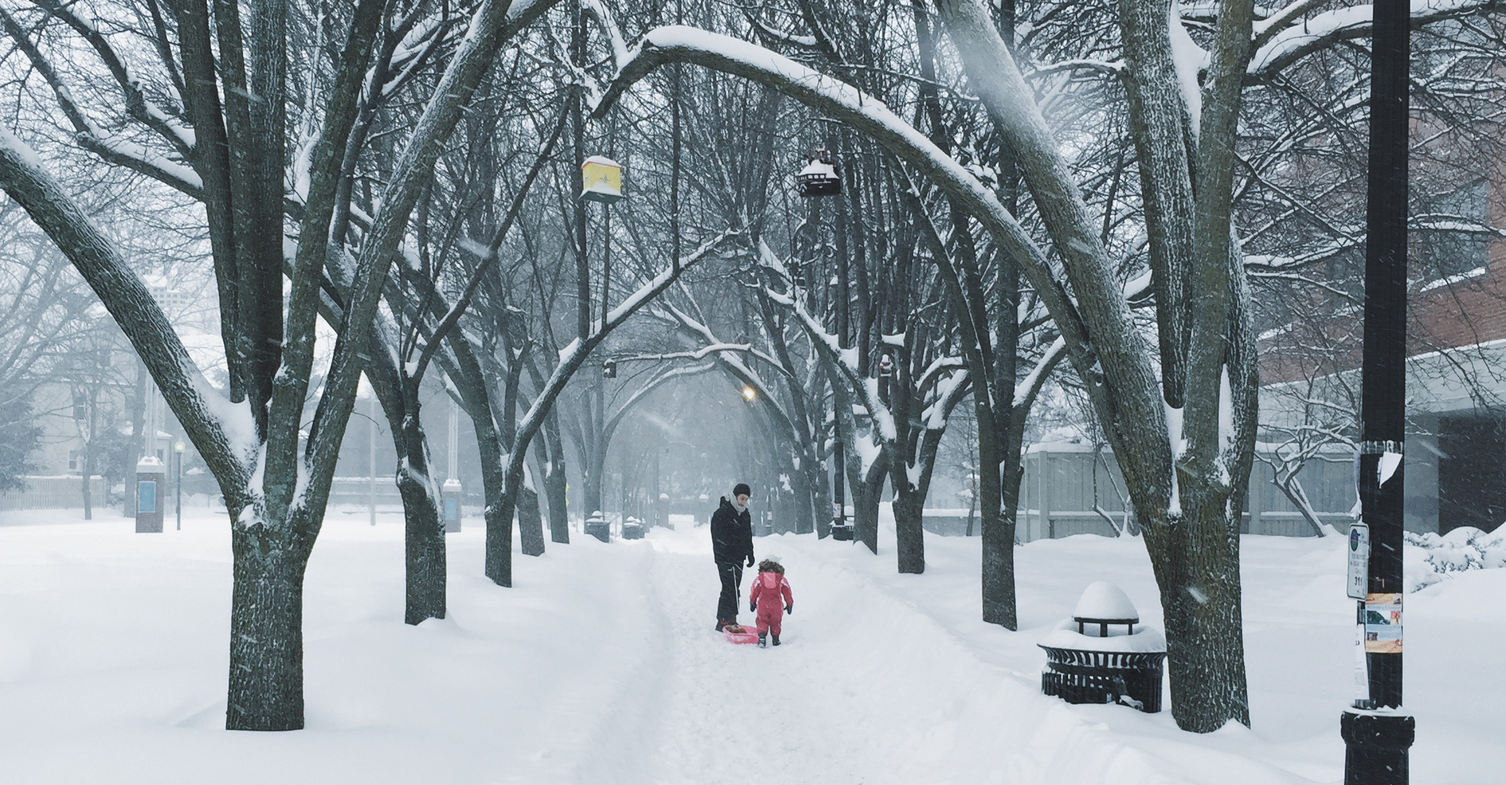
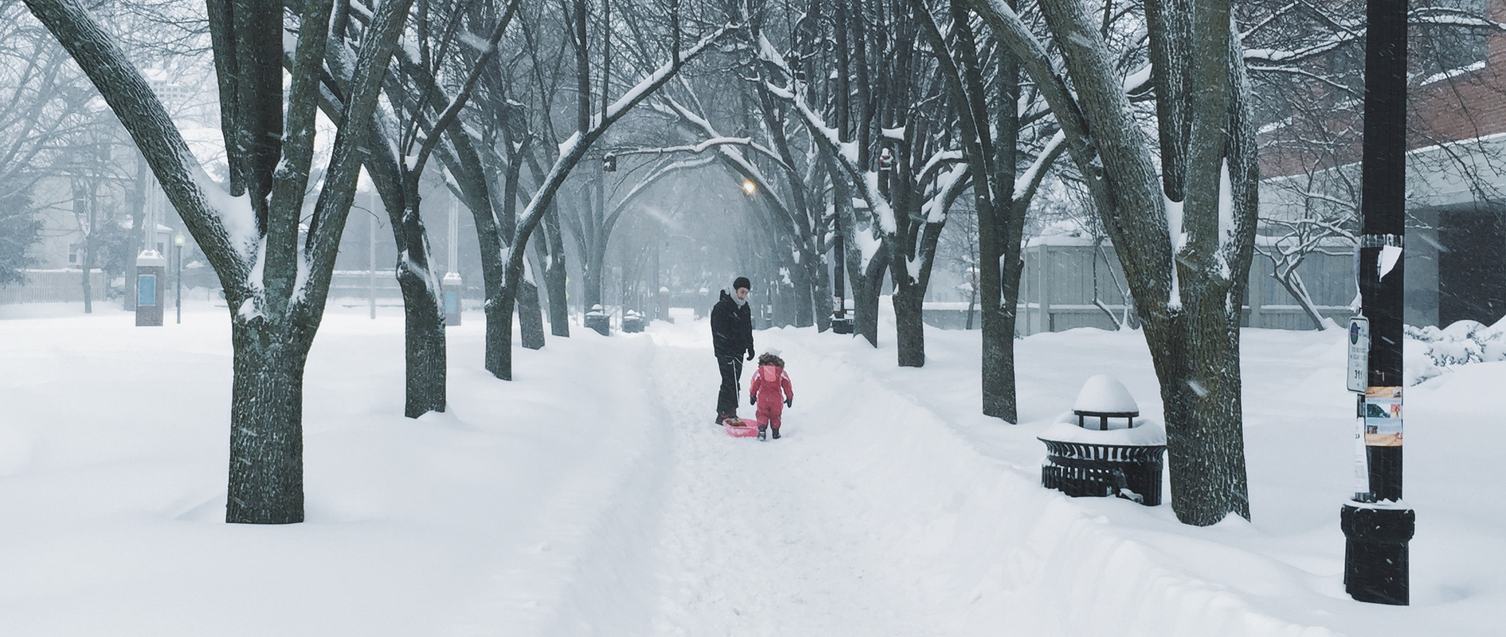
Update styles and photos
CSS clean up

diff --git a/index.html b/index.html
@@ -2,29 +2,10 @@
 <html lang="en">
 
 	<head>
-
-	<style>
-
-		.bk-photo{
-			background: url(assets/photos/snow-day.jpg) no-repeat center center fixed;
-			width: 100%;
-			padding: 0 7%;
-			display: table;
-			margin: 0;
-			max-width: none;
-			background-color: #373B44;
-			height: 80vh;
-		}
-
-		.layout-semibreve{
-			padding-top: 0 !important;
-		}
-
-	</style>
-
 	<meta charset="utf-8">
 	<meta name="viewport" content="width=device-width, initial-scale=1.0"/>
 	<title>Team Somerville: Our Fellowship Story</title>
+	<link rel="stylesheet" type="text/css" href="style.css">
 	<link rel="stylesheet" type="text/css" href="//cloud.webtype.com/css/944a7551-9b08-4f0a-8767-e0f83db4a16b.css" />
 	<link rel="stylesheet" href="https://style.codeforamerica.org/2/style/css/main.css">
 
@@ -61,16 +42,16 @@
 
 	<div class="layout-semibreve">
 
-			<header class="heading">
-				<h1>Team Somerville</h1>
-				<p><b>Mid-Year Report:</b> June 18, 2015</p>
-			</header>
+		<header class="heading">
+			<h1>Team Somerville</h1>
+			<p><b>Mid-Year Report:</b> June 18, 2015</p>
+		</header>
 
 		<div class="layout-minor">
 
 			<nav role="navigation" class="toc" id="toc">
 
-				<h3>Table of Contents</h3>
+				<h5>Table of Contents</h5>
 
 				<ul class="sectlevel1">
 					<li><a href="#summary">Executive Summary</a></li>
@@ -83,12 +64,12 @@
 					<li><a href="#welcome-baby">Welcome Baby</a></li>
 					<li><a href="#teacher-tool">Teacher Tool</a></li>
 					<li><a href="#special-ed">Special Education</a></li>
-					<li><a href="#side-projects">Next steps</a></li>
+					<li><a href="#side-projects">Side Projects</a></li>
 					<li><a href="#next-steps">Next steps</a></li>
 				</ul>
 
 			</nav>
-				<h3>Contributors</h3>
+				<h5>Contributors</h5>
 				<ul class="sectlevel1">
 					<li><a href="http://www.codeforamerica.org/people/alex-soble/">Alex Soble</a></li>
 					<li><a href="http://www.codeforamerica.org/people/amir-hadjihabib/">Amir Hadjihabib</a></li>
@@ -100,8 +81,7 @@
 		<main id="content" class="layout-major">
 
 			<section id="summary">
-				<h2>Executive Summary</h2>
-				<blockquote>“In a time of national gridlock where municipalities increasingly need to be the driving force for creative problem-solving and innovation, it’s critical to have a nimble organization like Code for America working directly with cities to develop new solutions and accelerate our progress. Our Fellows will be helping to expand data-based decision-making in our schools to improve outcomes for our students, and we are honored that we were selected to host them.” - Mayor Joseph Curtatone </blockquote>
+				<blockquote>In a time of national gridlock where municipalities increasingly need to be the driving force for creative problem-solving and innovation, it’s critical to have a nimble organization like Code for America working directly with cities</br></br><span class="quote-name">Mayor Joseph Curtatone</span></blockquote>
 			</section>
 
 			<section id="story">
@@ -110,8 +90,10 @@
 				<p><b><i>“Be abnormal and untethered.”</i></b> These were the words of advice from Mayor Joseph Curtatone. It was our first day of February Residency and we were snowed in. Despite having two Chicagoans on Team Somerville, we were not quite prepared for Boston’s frigid welcome. When our city partners - Stephanie Hirsch and Denise Taylor - arrived at our door, with a spare pair of boots to rescue what they called “LA slippers”, we half expected they would come with skis. </p>
 
 				<figure>
-					<img src="assets/photos/first-day-walk.jpg" />
-					<figcaption>[Us walking in the snow on the first day]</figcaption>
+					<span class="image_rounded_shadow">
+						<img src="assets/photos/first-day-walk.jpg"/>
+						<figcaption>Us walking in the snow on the first day</figcaption>
+					</span>
 				</figure>
 
 				<p>While many of our scheduled meetings were cancelled due to the State, City and school closures, the eventual record-breaking winter blizzards were blessings in disguise. We adapted and, in many ways, bonded over the shared new experiences: February Fellowship and <a href="https://twitter.com/BostonGlobe/status/577484658105020417">#BOSnow</a> storm.</p>
@@ -121,31 +103,30 @@
 				<p>We also soon discovered that Stephanie’s home was a revolving door for neighborhood folks who stopped by to simply say hi or to drop off their child for a play date. We immediately saw through these interactions how close-knit a community Somerville is with neighbors opening doors to each other when in need.</p>
 
 				<figure>
-					<img src="assets/photos/stephanie-home.jpg" />
-					<figcaption>[Design sessions at Stephanie’s home with Joey]</figcaption>
+					<span class="image_rounded_shadow">
+						<img src="assets/photos/stephanie-home.jpg" />
+						<figcaption>Design sessions at Stephanie’s home with Joey</figcaption>
+					</span
 				</figure>
 
 				<p>As a <a href="http://www.codeforamerica.org/blog/2015/04/20/team-of-three/">Team of Three</a>, we also had to quickly calibrate with each other's daily schedules and habits. We had been primed to prepare for the possibility that residency might mirror “Real World”, living and working 24/7 with now roommates/teammates who only a month ago were strangers. Our “reality” however was much more like Golden Girls. We spent afternoons working from our kitchen table, out of the local Diesel Cafe, or at our Cummings School office. For lunch, we tried out new local restaurants or ate our packed PB&amp;J sandwiches. In the evenings, tea-briefs, home-cooked greens, and board games became our daily rituals. From our morning standups to our evening tea-briefs, for the 28 days of residency, we had each other to lean on, learn from, and laugh with.</p>
 
 				<figure>
-					<img src="assets/photos/us-walking.jpg" />
-					<figcaption>[Us walking our 2-mile commute in the blizzard from Davis Square to Union Square]</figcaption>
+					<span class="image_rounded_shadow">
+						<img src="assets/photos/us-walking.jpg" />
+						<figcaption>Us walking our 2-mile commute in the blizzard from Davis Square to Union Square</figcaption>
+					</span>
 				</figure>
 
 				<p>It was not all snowflakes and apple spice tea though. There were inevitable emotional and practical setbacks to not being able to do what we planned on doing: cancellations, postponements, and closures compounded with each inch of snow. But by the end of our February residency, we had shoveled our way through the figurative and literal 64.8 total inches and we had met over 50 stakeholders at the State, City, and schools.</p>
 
 				<p>We spoke with Vince McKay, Assistant Superintendent of Somerville Public Schools, and Uri Harel, Elementary Curriculum Coordinator, and learned how teachers need a way to better connect disparate data sources together in order to help them monitor student learning and support their instruction. The urgency of tapping into these data was described not simply as a way to mine numbers but to meet individual student needs: <i>“Let’s not collect data and sit on it for months but rapid response to what students need and re-teach”</i> (Uri Harel). We heard stories from Regina Bertholdo, Director of the Parent Information Center (PIC), on how the PIC is not only the “octopus” that helps families connect with school and social services but is the helping hand that teaches families how to be empowered and advocate for themselves.</p>
 
-<!--
 				<figure>
-					<img src="assets/photos/aida-last-day.jpg" />
-					<figcaption>[Aida on her last day of 21 years]</figcaption>
-				</figure>
--->
-
-				<figure>
-					<img src="assets/photos/escs-early-childhood.jpg" />
-					<figcaption>[Early Childhood meeting at East Somerville Community School]</figcaption>
+					<span class="image_rounded_shadow">
+						<img src="assets/photos/escs-early-childhood.jpg" />
+						<figcaption>Early Childhood meeting at East Somerville Community School</figcaption>
+					</span>
 				</figure>
 
 				<p>MORE ON ARC OF EARLY CHILDHOOD to SCHOOL AGE</p>
@@ -162,8 +143,10 @@
 				<p>Over the past 10 years, Mayor Curtatone has developed Somerville into a beacon of innovation, leading the way for smart government and civic engagement. With programs like SomerStat, ResiStat, SomerPromise, and SomerViva, the city has dedicated itself to understanding the needs of all its residents through culturally inclusive dialogue and data-driven insights. In particular, Mayor Curtatone has led the initiatives to use data in decision-making with the belief that <i>“operating without data is like … driving a car blindfold”.</i></p>
 
 				<figure>
-					<img src="assets/photos/somerstat.jpg" />
-					<figcaption>[Team Somerville &amp; the SomerStat Team]</figcaption>
+					<span class="image_rounded_shadow">
+						<img src="assets/photos/somerstat.jpg" />
+						<figcaption>Team Somerville &amp; the SomerStat Team</figcaption>
+					</span>
 				</figure>
 
 				<p>Primary among Mayor Curtatone’s data initiatives are the SomerStat and ResiStat programs. The SomerStat program supports City departments to use data to inform financial, personnel, and operational decisions towards identifying opportunities to improve City services. The idea behind SomerStat is that <i>“frequent ‘statting’ of city departments via data analysis means that problems as well as opportunities to innovate are continually identified, which ensures that we are constantly looking for better, more innovative answers.”</i> <a href="http://somervilleresistat.blogspot.com/">ResiStat</a> is the community-facing arm of SomerStat where City staff and residents can share city data, discuss community issues, and engage in joint problem-solving. Somerville is also the first in New England to launch a Socrata-powered <a href="https://data.somervillema.gov/">Open Data Portal</a>, increasing citizen access to government data including budget expenditures, 311 call center operations, and happiness survey responses. Not only that, the <a href="http://www.somervillema.gov/dashboard/">City Data Dashboard</a>, built by Chief of Staff <a href="https://github.com/DanielHadley">Daniel Hadley</a>, shows the data as friendly visualizations for residents to interact with, with the Mayor’s philosophy being that <i>“the more transparent and more accountable we can be with the public, they more engaging they will want to be with us.”</i></p>
@@ -171,11 +154,20 @@
 				<p>Given Somerville’s innovation in using data in governance and civic engagement, it is not surprising that Somerville’s application to the <a href="http://www.codeforamerica.org/governments/somerville/">Code for America Fellowship</a> focused on how to tap into and integrate the existing City and school data systems to create tools that will help identify children at risk and ensure critical services are delivered.</p>
 
 				<figure>
-					<img src="assets/photos/mayor.jpg" />
-					<figcaption>[Code for America's Jennifer Pahlka and Mayor Joseph Curtatone]</figcaption>
+					<span class="image_rounded_shadow">
+						<img src="assets/photos/mayor.jpg" />
+						<figcaption>[Code for America's Jennifer Pahlka and Mayor Joseph Curtatone]</figcaption>
+					</span>
 				</figure>
+			</section>
+
+				<p>Given Somerville’s innovation in using data in governance and civic engagement, it is not surprising that Somerville’s application to the Code for America Fellowship focused on how to tap into and integrate the existing City and school data systems to create tools that will help identify children at risk and ensure critical services are delivered.</p>
 
 			</section>
+
+
+			</section>
+
 
 			<section id="focus">
 				<h2>Focus</h2>
@@ -223,60 +215,9 @@
 
 					<p>By keeping our focus on the people we are building with we are better able to meet their needs. Prioritizing ideas and concepts quickly based on their feedback lets us filter down to what is important to them quickly. Letting us build a thing that matches their needs rather than building  a thing we imagine matches their needs.</p>
 
-<!--
-					<h3>The People</h3>
-
-					<ul>
-						<li><b>Schools</b>
-							<ul>
-								<li><b>Healey School</b>
-									<ul>
-										<li><b>5th grade team</b>: Collaborated with this team on the initial ideation around Student Insights and continuing to gather feedback on prototypes and concepts</li>
-										<li><b>4th grade team</b>: We learned from this team about their current needs and frustrations</li>
-									</ul>
-								</li>
-								<li><b>Kindergarten</b>
-									<ul>
-										<li>YMCA Somerville</li>
-										<li>Capuano Early Childhood Center</li>
-									</ul>
-								</li>
-								<li><b>Parents</b>
-									<ul>
-										<li><b>Market Basket</b>: Community outreach to learn from parents. Working to better understand their interactions with schools and cities.</li>
-										<li><b>Healey School Tot Lot</b>: Working to find more parents to learn from we went to schools themselves. Asking to talk with parents as they dropped off their children for school.</li>
-									</ul>
-								</li>
-							</ul>
-						</li>
-						<li><b>Government</b>
-							<ul>
-								<li><b>Joseph Curtatone, Mayor</b>: Shared his vision for the city with us and how he hopes to take it there.</li>
-								<li><b>City Hall Night</b>: We hosted an event to talk about design thinking with city staff. There were a variety of activities to take part in with the hopes of showing how design can be a part of everyday life.</li>
-								<li><b>John Long, City Clerk</b>: Learned about the current birth certificate process in Somerville.</li>
-								<li><b>John Breslin, School IT</b>: Learned about the School Information System and continuing to work with on access to information and guidance.</li>
-							</ul>
-						</li>
-						<li><b>Partners</b>
-							<ul>
-								<li><b>Stephanie and Denise</b>: Both with extensive knowledge of the interworking of Somerville’s City Hall and School District they empowered us to reach our goals.</li>
-								<li><b>Fernanda and Michelle</b>: As part of the Somerville Family Learning Collaborative they are doing amazing work directly with families. Ranging from playgroups for young children to home visiting for literacy. We learned about their process for finding families and connecting with them on a person level.</li>
-								<li><b>Uri and Vince</b></li>
-								<li><b>Nomi and Anna</b></li>
-								<li><b>Aida and Regina</b></li>
-							</ul>
-						</li>
-					</ul>
--->
 					<h3>What We Learned</h3>
 
 					<p>Go learn from people. If you feel like you can’t or aren’t ready yet, it is more than likely just in your head. Early and often is a term used for shipping code but the same can be said about learning from people. They are the ones who know what you should build so go ask and listen.</p>
-
-<!--
-					<h3>What is next</h3>
-
-					<p>We will continue learning from the people of Somerville. By working with the teachers of Somerville to improve Student Insights. Our plan is to test the tool and what it delivers to teachers during summer school. Summer school teachers have a brand new class of students for a limited time. It is a great opportunity for us to test the Profile aspect of Student Insights.</p>
--->
 
 			</section>
 
@@ -292,8 +233,10 @@
 					<p>Compelled to not repeat this story again, our City and School partners investigated the teen mother’s journey to better understand what obstacles she faced, which doors closed, and what opportunities were missed. While the City has a strong network of social service providers including Somerville Public Schools, Somerville Family Learning Collaborative, SomerViva, and the Parent Information Center, we needed to understand how to make sure that all families, especially those isolated from the usual channels of communication, could learn about, connect with, and grab onto the lifeline that they need when they need it.</p>
 
 					<figure>
-						<img src="assets/photos/welcome-basket.jpg" />
-						<figcaption>[Us doing community engagement at the Healey School Tot Lot]</figcaption>
+						<span class="image_rounded_shadow">
+							<img src="assets/photos/welcome-basket.jpg" />
+							<figcaption>Us doing community engagement at the Healey School Tot Lot</figcaption>
+						</span>
 					</figure>
 
 					<p>We interviewed the Somerville Family Learning Collaborative (SFLC) about the challenges they face when conducting outreach to parents. Lack of contact information for new Somerville parents was ranked as the biggest challenge.</p>
@@ -314,9 +257,11 @@
 					<h3>Teacher Tool</h3>
 					<p>XXX</p>
 
+
 					<iframe width="853" height="480" src="https://www.youtube.com/embed/B6FPnSOQQIk?rel=0&amp;showinfo=0" frameborder="0" allowfullscreen></iframe>
 
-					<h4>Timeline</h4>
+					<h3>Timeline</h3>
+
 					<ul>
 						<li><b>June 2015</b>: We are testing the app with more teachers now and building out the student profile features with the help of Code for SF and Code for Boston brigade volunteers.</li>
 						<li><b>May 2015</b>: We are considering the app an alpha product now. Our focus is on building out the student profile feature and improving the roster view while testing working iterations with our teacher partners at Healey.</li>

diff --git a/style.css b/style.css
@@ -1,0 +1,73 @@
+/*background image */
+
+		.bk-photo{
+			background: url(assets/photos/snow-day.jpg) no-repeat center center fixed;
+			width: 100%;
+			display: table;
+			margin: 0;
+			background-color: #373B44;
+			height: 85vh;
+		}
+
+		.layout-semibreve{
+			padding-top: 0 !important;
+		}
+
+/*type*/
+
+p{
+	color: #333;
+}
+
+h1{
+	font-size: 2.5rem !important;
+}
+
+h2{
+	color: #333;
+}
+
+h3{
+	color:#399fd3;
+}
+
+blockquote {
+	overflow: auto;
+	font-size: 1.5rem !important;
+}
+
+.quote-name{
+	float: right;
+	display: block;
+}
+
+/*photo*/
+
+.image_rounded_shadow {
+	display: inline-block;
+	margin: 5px 5px 5px 5px;
+	padding: 10px 10px 10px 10px;
+	border: solid 1px #ddd;
+	background-color:#f8f8f8;
+	box-shadow: 1px 1px 6px #ccc;
+	-webkit-box-shadow: 1px 1px 6px #ccc;
+	-moz-box-shadow: 1px 1px 6px #ccc;
+	border-radius:8px;
+	-moz-border-radius:8px;
+	-webkit-border-radius:8px;
+}
+
+.image_rounded_shadow img {
+	margin: 0px 0px 0px 0px;
+	padding: 0px 0px 0px 0px;
+	border-radius:6px;
+	-moz-border-radius:6px;
+	-webkit-border-radius:6px;
+}
+
+figcaption {
+	text-align: center;
+	padding-top: 10px;
+	color:#999;
+}
+
